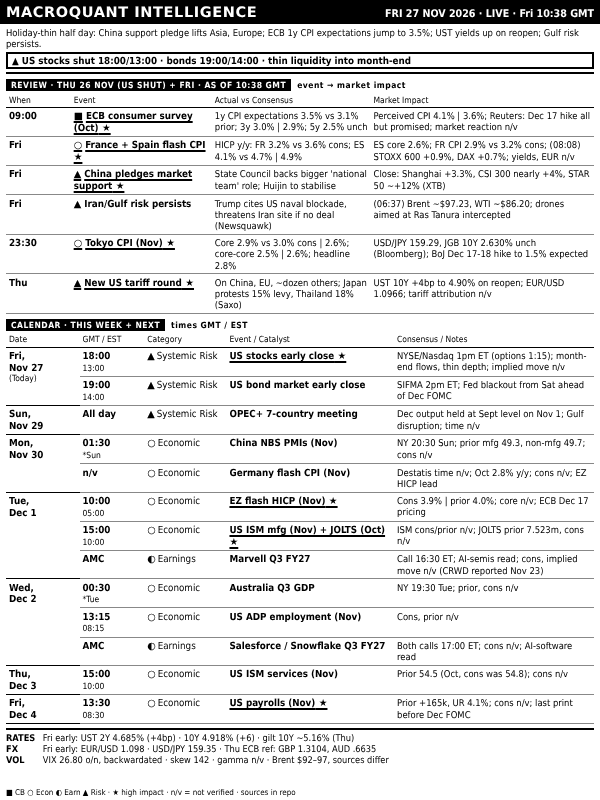
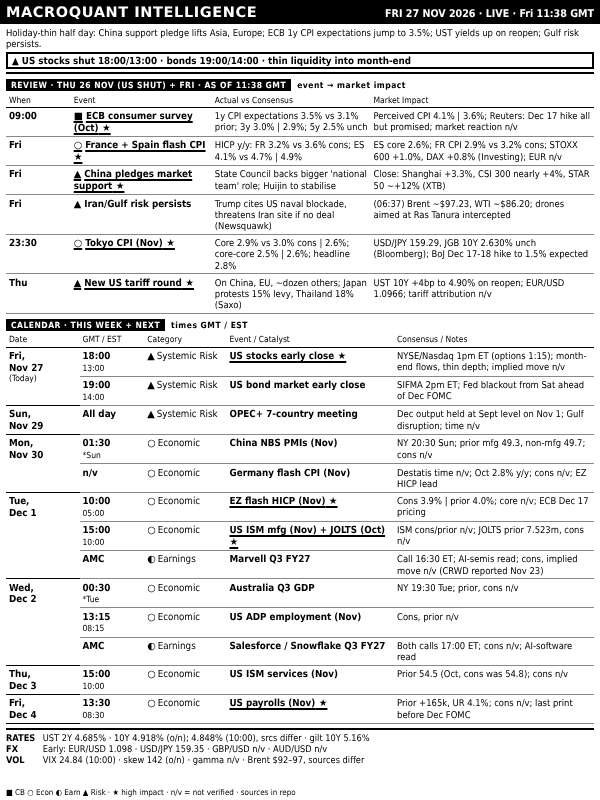
dashboard: FRI 27 NOV 2026 LIVE 11:38
Claude-Session: https://claude.ai/code/session_016SJqa4kqocwuaSuivhWqi5

Changed region(s): [[0.06, 0.9062, 0.66, 0.9688], [0.63, 0.1562, 0.96, 0.2188]]

diff --git a/out/dashboard.html b/out/dashboard.html
@@ -38,12 +38,12 @@ table.bd{border-collapse:collapse;width:100%;table-layout:fixed;margin-top:1px}
 </style></head><body>
 <div id="root">
  <div class="hdr"><span class="t">MACROQUANT INTELLIGENCE</span>
-  <span class="r">FRI 27 NOV 2026 · LIVE · Fri 10:38 GMT</span></div>
+  <span class="r">FRI 27 NOV 2026 · LIVE · Fri 11:38 GMT</span></div>
  <div class="ban"><div class="rg">Holiday-thin half day: China support pledge lifts Asia, Europe; ECB 1y CPI expectations jump to 3.5%; UST yields up on reopen; Gulf risk persists.</div><div class="al">▲ US stocks shut 18:00/13:00 · bonds 19:00/14:00 · thin liquidity into month-end</div></div>
- <div class="sl"><span>REVIEW · THU 26 NOV (US SHUT) + FRI · AS OF 10:38 GMT</span>event → market impact</div><table class="bd rv"><colgroup><col style="width:11%"><col style="width:24%"><col style="width:27%"><col></colgroup><tr><th>When</th><th>Event</th><th>Actual vs Consensus</th><th>Market Impact</th></tr><tr class="h"><td class="tm"><b>09:00</b></td><td class="ev"><i>■</i>ECB consumer survey (Oct)</td><td class="ac">1y CPI expectations 3.5% vs 3.1% prior; 3y 3.0% | 2.9%; 5y 2.5% unch</td><td class="nt">Perceived CPI 4.1% | 3.6%; Reuters: Dec 17 hike all but promised; market reaction n/v</td></tr><tr class="h"><td class="tm"><b>Fri</b></td><td class="ev"><i>○</i>France + Spain flash CPI</td><td class="ac">HICP y/y: FR 3.2% vs 3.6% cons; ES 4.1% vs 4.7% | 4.9%</td><td class="nt">ES core 2.6%; FR CPI 2.9% vs 3.2% cons; (08:08) STOXX 600 +0.9%, DAX +0.7%; yields, EUR n/v</td></tr><tr class="h"><td class="tm"><b>Fri</b></td><td class="ev"><i>▲</i>China pledges market support</td><td class="ac">State Council backs bigger 'national team' role; Huijin to stabilise</td><td class="nt">Close: Shanghai +3.3%, CSI 300 nearly +4%, STAR 50 ~+12% (XTB)</td></tr><tr><td class="tm"><b>Fri</b></td><td class="ev"><i>▲</i>Iran/Gulf risk persists</td><td class="ac">Trump cites US naval blockade, threatens Iran site if no deal (Newsquawk)</td><td class="nt">(06:37) Brent ~$97.23, WTI ~$86.20; drones aimed at Ras Tanura intercepted</td></tr><tr class="h"><td class="tm"><b>23:30</b></td><td class="ev"><i>○</i>Tokyo CPI (Nov)</td><td class="ac">Core 2.9% vs 3.0% cons | 2.6%; core-core 2.5% | 2.6%; headline 2.8%</td><td class="nt">USD/JPY 159.29, JGB 10Y 2.630% unch (Bloomberg); BoJ Dec 17-18 hike to 1.5% expected</td></tr><tr class="h"><td class="tm"><b>Thu</b></td><td class="ev"><i>▲</i>New US tariff round</td><td class="ac">On China, EU, ~dozen others; Japan protests 15% levy, Thailand 18% (Saxo)</td><td class="nt">UST 10Y +4bp to 4.90% on reopen; EUR/USD 1.0966; tariff attribution n/v</td></tr></table>
+ <div class="sl"><span>REVIEW · THU 26 NOV (US SHUT) + FRI · AS OF 11:38 GMT</span>event → market impact</div><table class="bd rv"><colgroup><col style="width:11%"><col style="width:24%"><col style="width:27%"><col></colgroup><tr><th>When</th><th>Event</th><th>Actual vs Consensus</th><th>Market Impact</th></tr><tr class="h"><td class="tm"><b>09:00</b></td><td class="ev"><i>■</i>ECB consumer survey (Oct)</td><td class="ac">1y CPI expectations 3.5% vs 3.1% prior; 3y 3.0% | 2.9%; 5y 2.5% unch</td><td class="nt">Perceived CPI 4.1% | 3.6%; Reuters: Dec 17 hike all but promised; market reaction n/v</td></tr><tr class="h"><td class="tm"><b>Fri</b></td><td class="ev"><i>○</i>France + Spain flash CPI</td><td class="ac">HICP y/y: FR 3.2% vs 3.6% cons; ES 4.1% vs 4.7% | 4.9%</td><td class="nt">ES core 2.6%; FR CPI 2.9% vs 3.2% cons; STOXX 600 +1.0%, DAX +0.8% (Investing); EUR n/v</td></tr><tr class="h"><td class="tm"><b>Fri</b></td><td class="ev"><i>▲</i>China pledges market support</td><td class="ac">State Council backs bigger 'national team' role; Huijin to stabilise</td><td class="nt">Close: Shanghai +3.3%, CSI 300 nearly +4%, STAR 50 ~+12% (XTB)</td></tr><tr><td class="tm"><b>Fri</b></td><td class="ev"><i>▲</i>Iran/Gulf risk persists</td><td class="ac">Trump cites US naval blockade, threatens Iran site if no deal (Newsquawk)</td><td class="nt">(06:37) Brent ~$97.23, WTI ~$86.20; drones aimed at Ras Tanura intercepted</td></tr><tr class="h"><td class="tm"><b>23:30</b></td><td class="ev"><i>○</i>Tokyo CPI (Nov)</td><td class="ac">Core 2.9% vs 3.0% cons | 2.6%; core-core 2.5% | 2.6%; headline 2.8%</td><td class="nt">USD/JPY 159.29, JGB 10Y 2.630% unch (Bloomberg); BoJ Dec 17-18 hike to 1.5% expected</td></tr><tr class="h"><td class="tm"><b>Thu</b></td><td class="ev"><i>▲</i>New US tariff round</td><td class="ac">On China, EU, ~dozen others; Japan protests 15% levy, Thailand 18% (Saxo)</td><td class="nt">UST 10Y +4bp to 4.90% on reopen; EUR/USD 1.0966; tariff attribution n/v</td></tr></table>
  <div class="sl"><span>CALENDAR · THIS WEEK + NEXT</span>times GMT / EST</div>
  <table class="bd"><colgroup><col style="width:12.5%"><col style="width:11%"><col style="width:14%"><col style="width:28.5%"><col></colgroup><tr><th>Date</th><th>GMT / EST</th><th>Category</th><th>Event / Catalyst</th><th>Consensus / Notes</th></tr><tr class="g0 h"><td class="dt" rowspan="2">Fri,<br>Nov&nbsp;27<span class="tg">(Today)</span></td><td class="tm"><b>18:00</b><span>13:00</span></td><td class="ct"><i>▲</i>Systemic Risk</td><td class="ev">US stocks early close</td><td class="nt">NYSE/Nasdaq 1pm ET (options 1:15); month-end flows, thin depth; implied move n/v</td></tr><tr class=""><td class="tm"><b>19:00</b><span>14:00</span></td><td class="ct"><i>▲</i>Systemic Risk</td><td class="ev">US bond market early close</td><td class="nt">SIFMA 2pm ET; Fed blackout from Sat ahead of Dec FOMC</td></tr><tr class="g0"><td class="dt" rowspan="1">Sun,<br>Nov&nbsp;29</td><td class="tm"><b>All day</b></td><td class="ct"><i>▲</i>Systemic Risk</td><td class="ev">OPEC+ 7-country meeting</td><td class="nt">Dec output held at Sept level on Nov 1; Gulf disruption; time n/v</td></tr><tr class="g0"><td class="dt" rowspan="2">Mon,<br>Nov&nbsp;30</td><td class="tm"><b>01:30</b><span>*Sun</span></td><td class="ct"><i>○</i>Economic</td><td class="ev">China NBS PMIs (Nov)</td><td class="nt">NY 20:30 Sun; prior mfg 49.3, non-mfg 49.7; cons n/v</td></tr><tr class=""><td class="tm"><b>n/v</b></td><td class="ct"><i>○</i>Economic</td><td class="ev">Germany flash CPI (Nov)</td><td class="nt">Destatis time n/v; Oct 2.8% y/y; cons n/v; EZ HICP lead</td></tr><tr class="g0 h"><td class="dt" rowspan="3">Tue,<br>Dec&nbsp;1</td><td class="tm"><b>10:00</b><span>05:00</span></td><td class="ct"><i>○</i>Economic</td><td class="ev">EZ flash HICP (Nov)</td><td class="nt">Cons 3.9% | prior 4.0%; core n/v; ECB Dec 17 pricing</td></tr><tr class="h"><td class="tm"><b>15:00</b><span>10:00</span></td><td class="ct"><i>○</i>Economic</td><td class="ev">US ISM mfg (Nov) + JOLTS (Oct)</td><td class="nt">ISM cons/prior n/v; JOLTS prior 7.523m, cons n/v</td></tr><tr class=""><td class="tm"><b>AMC</b></td><td class="ct"><i>◐</i>Earnings</td><td class="ev">Marvell Q3 FY27</td><td class="nt">Call 16:30 ET; AI-semis read; cons, implied move n/v (CRWD reported Nov 23)</td></tr><tr class="g0"><td class="dt" rowspan="3">Wed,<br>Dec&nbsp;2</td><td class="tm"><b>00:30</b><span>*Tue</span></td><td class="ct"><i>○</i>Economic</td><td class="ev">Australia Q3 GDP</td><td class="nt">NY 19:30 Tue; prior, cons n/v</td></tr><tr class=""><td class="tm"><b>13:15</b><span>08:15</span></td><td class="ct"><i>○</i>Economic</td><td class="ev">US ADP employment (Nov)</td><td class="nt">Cons, prior n/v</td></tr><tr class=""><td class="tm"><b>AMC</b></td><td class="ct"><i>◐</i>Earnings</td><td class="ev">Salesforce / Snowflake Q3 FY27</td><td class="nt">Both calls 17:00 ET; cons n/v; AI-software read</td></tr><tr class="g0"><td class="dt" rowspan="1">Thu,<br>Dec&nbsp;3</td><td class="tm"><b>15:00</b><span>10:00</span></td><td class="ct"><i>○</i>Economic</td><td class="ev">US ISM services (Nov)</td><td class="nt">Prior 54.5 (Oct, cons was 54.8); cons n/v</td></tr><tr class="g0 h"><td class="dt" rowspan="1">Fri,<br>Dec&nbsp;4</td><td class="tm"><b>13:30</b><span>08:30</span></td><td class="ct"><i>○</i>Economic</td><td class="ev">US payrolls (Nov)</td><td class="nt">Prior +165k, UR 4.1%; cons n/v; last print before Dec FOMC</td></tr></table>
- <div class="lv"><div><b>RATES</b>Fri early: UST 2Y 4.685% (+4bp) · 10Y 4.918% (+6) · gilt 10Y ~5.16% (Thu)</div><div><b>FX</b>Fri early: EUR/USD 1.098 · USD/JPY 159.35 · Thu ECB ref: GBP 1.3104, AUD .6635</div><div><b>VOL</b>VIX 26.80 o/n, backwardated · skew 142 · gamma n/v · Brent $92–97, sources differ</div></div>
+ <div class="lv"><div><b>RATES</b>UST 2Y 4.685% · 10Y 4.918% (o/n); 4.848% (10:00), srcs differ · gilt 10Y 5.16%</div><div><b>FX</b>Early: EUR/USD 1.098 · USD/JPY 159.35 · GBP/USD n/v · AUD/USD n/v</div><div><b>VOL</b>VIX 24.84 (10:00) · skew 142 (o/n) · gamma n/v · Brent $92–97, sources differ</div></div>
 </div>
 <div class="foot">■ CB ○ Econ ◐ Earn ▲ Risk · ★ high impact · n/v = not verified · sources in repo</div>
 </body></html>
